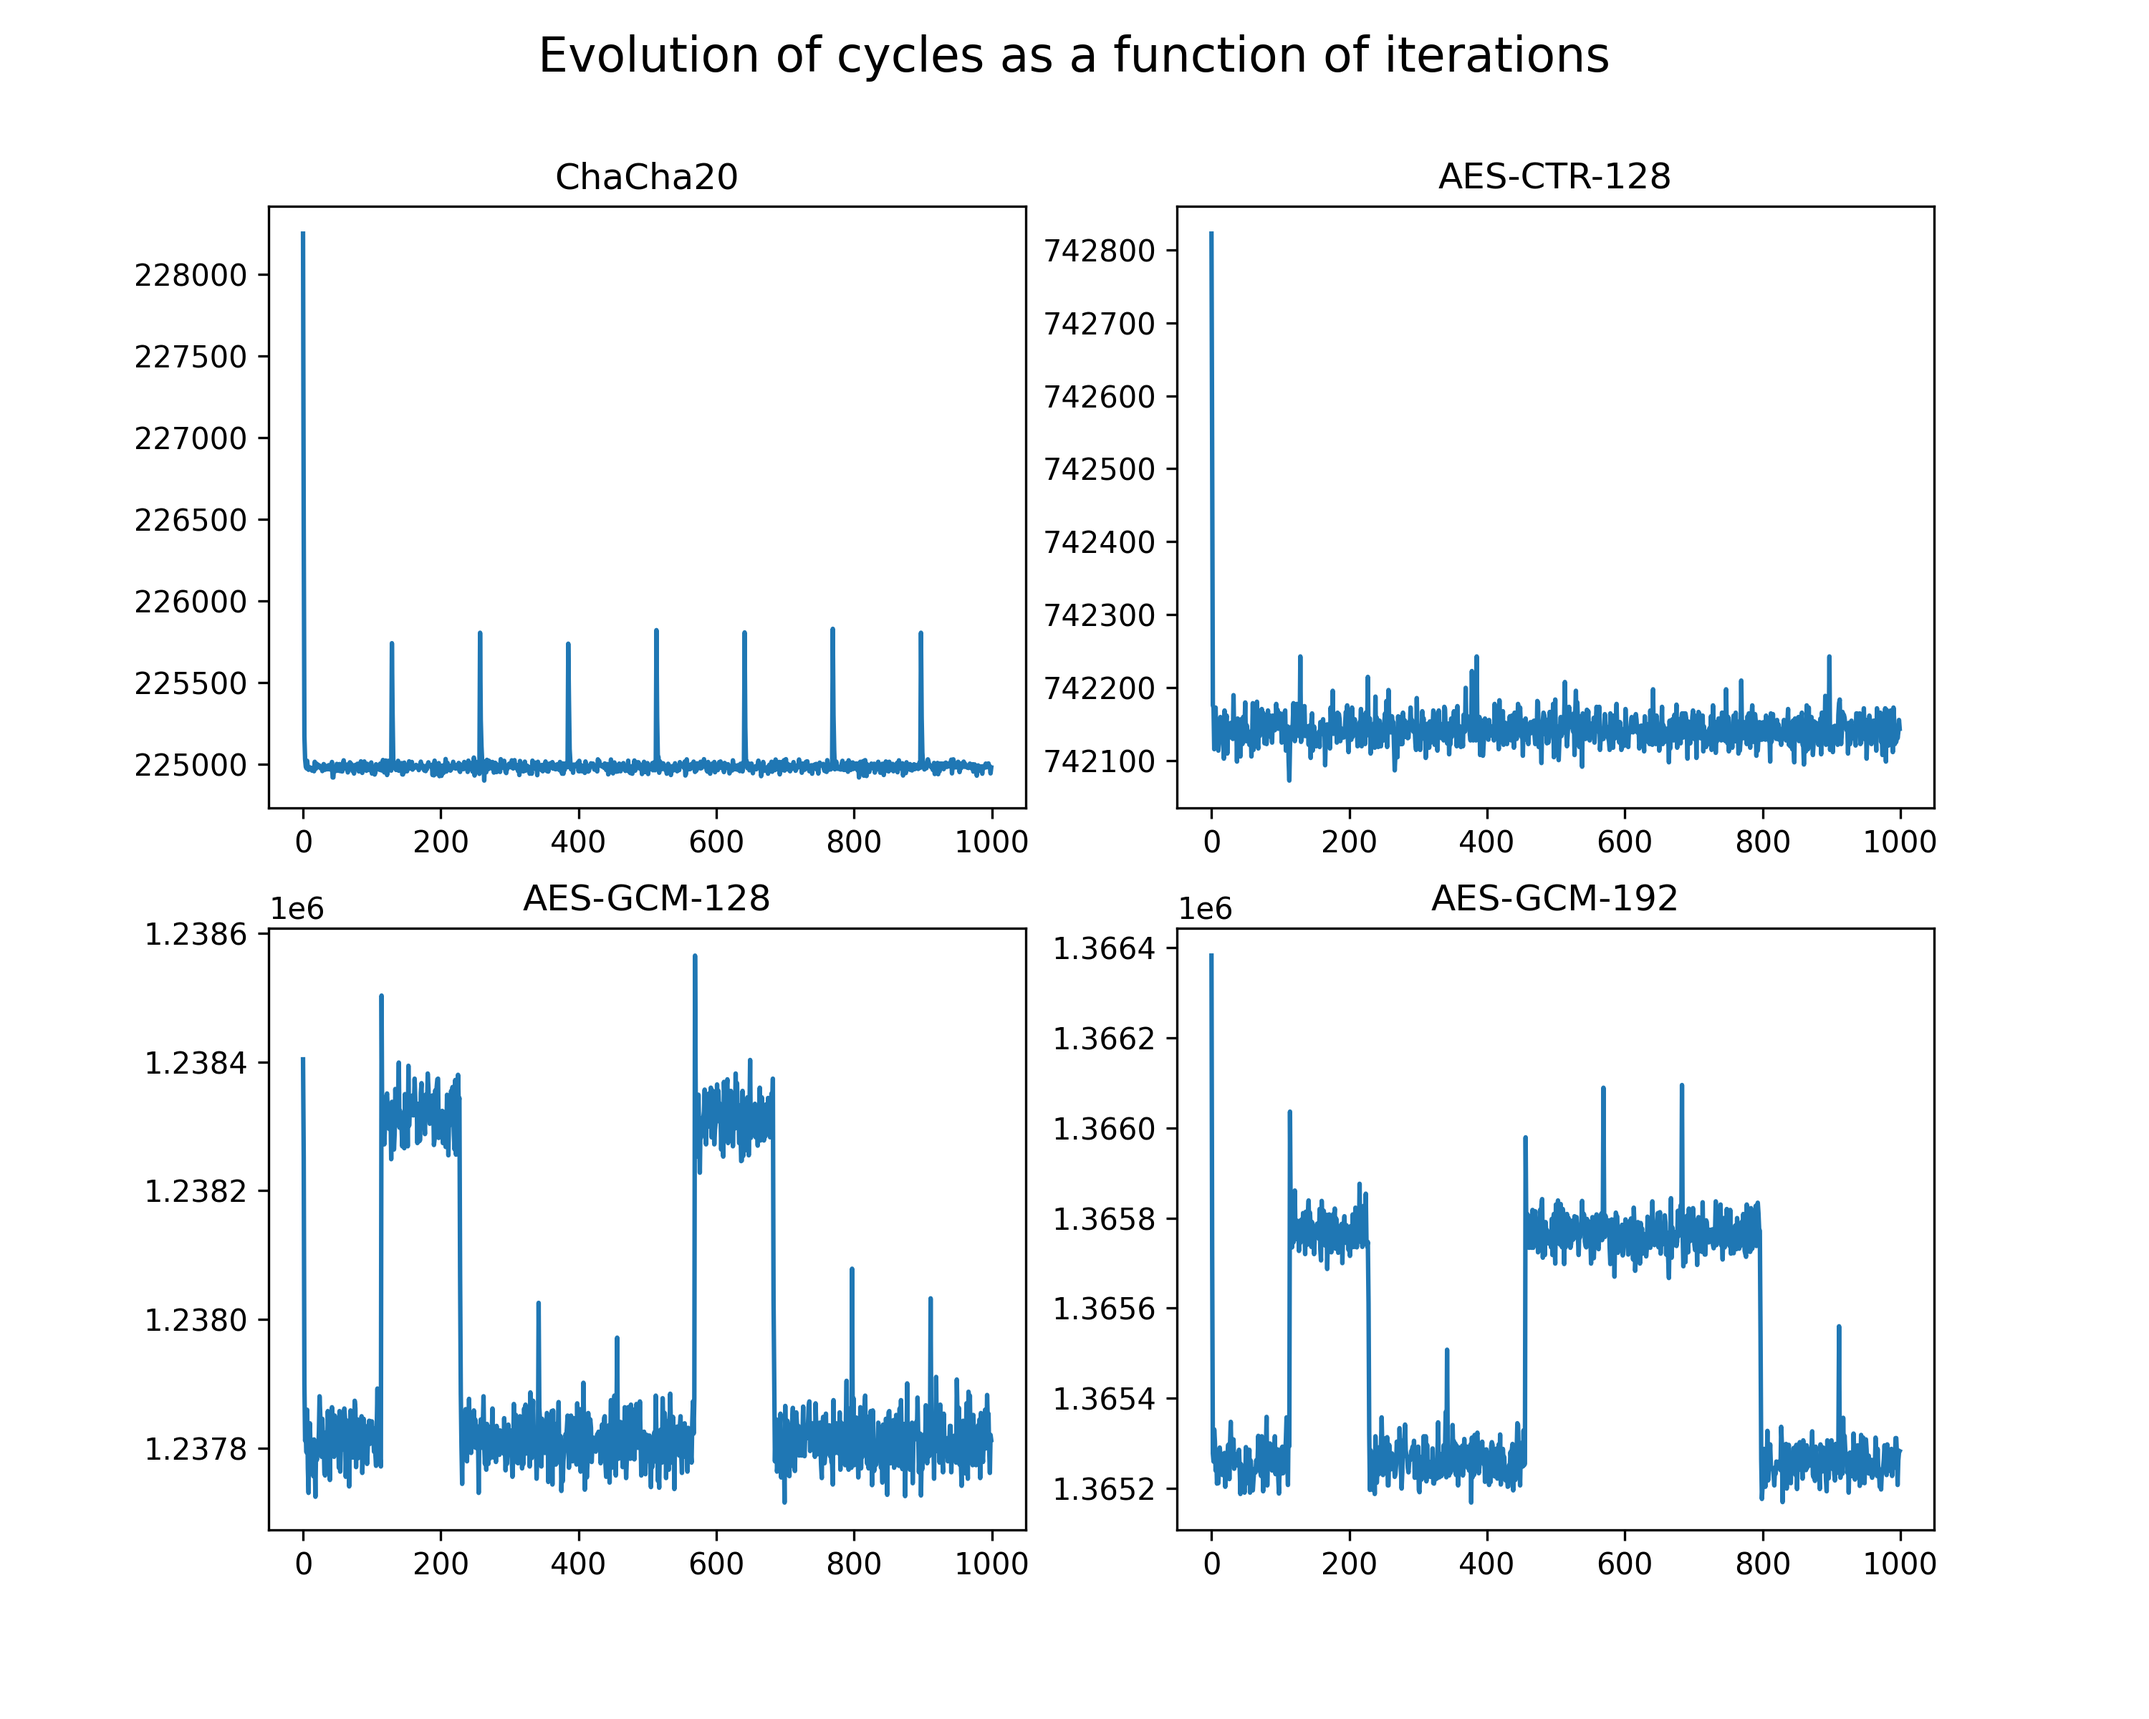
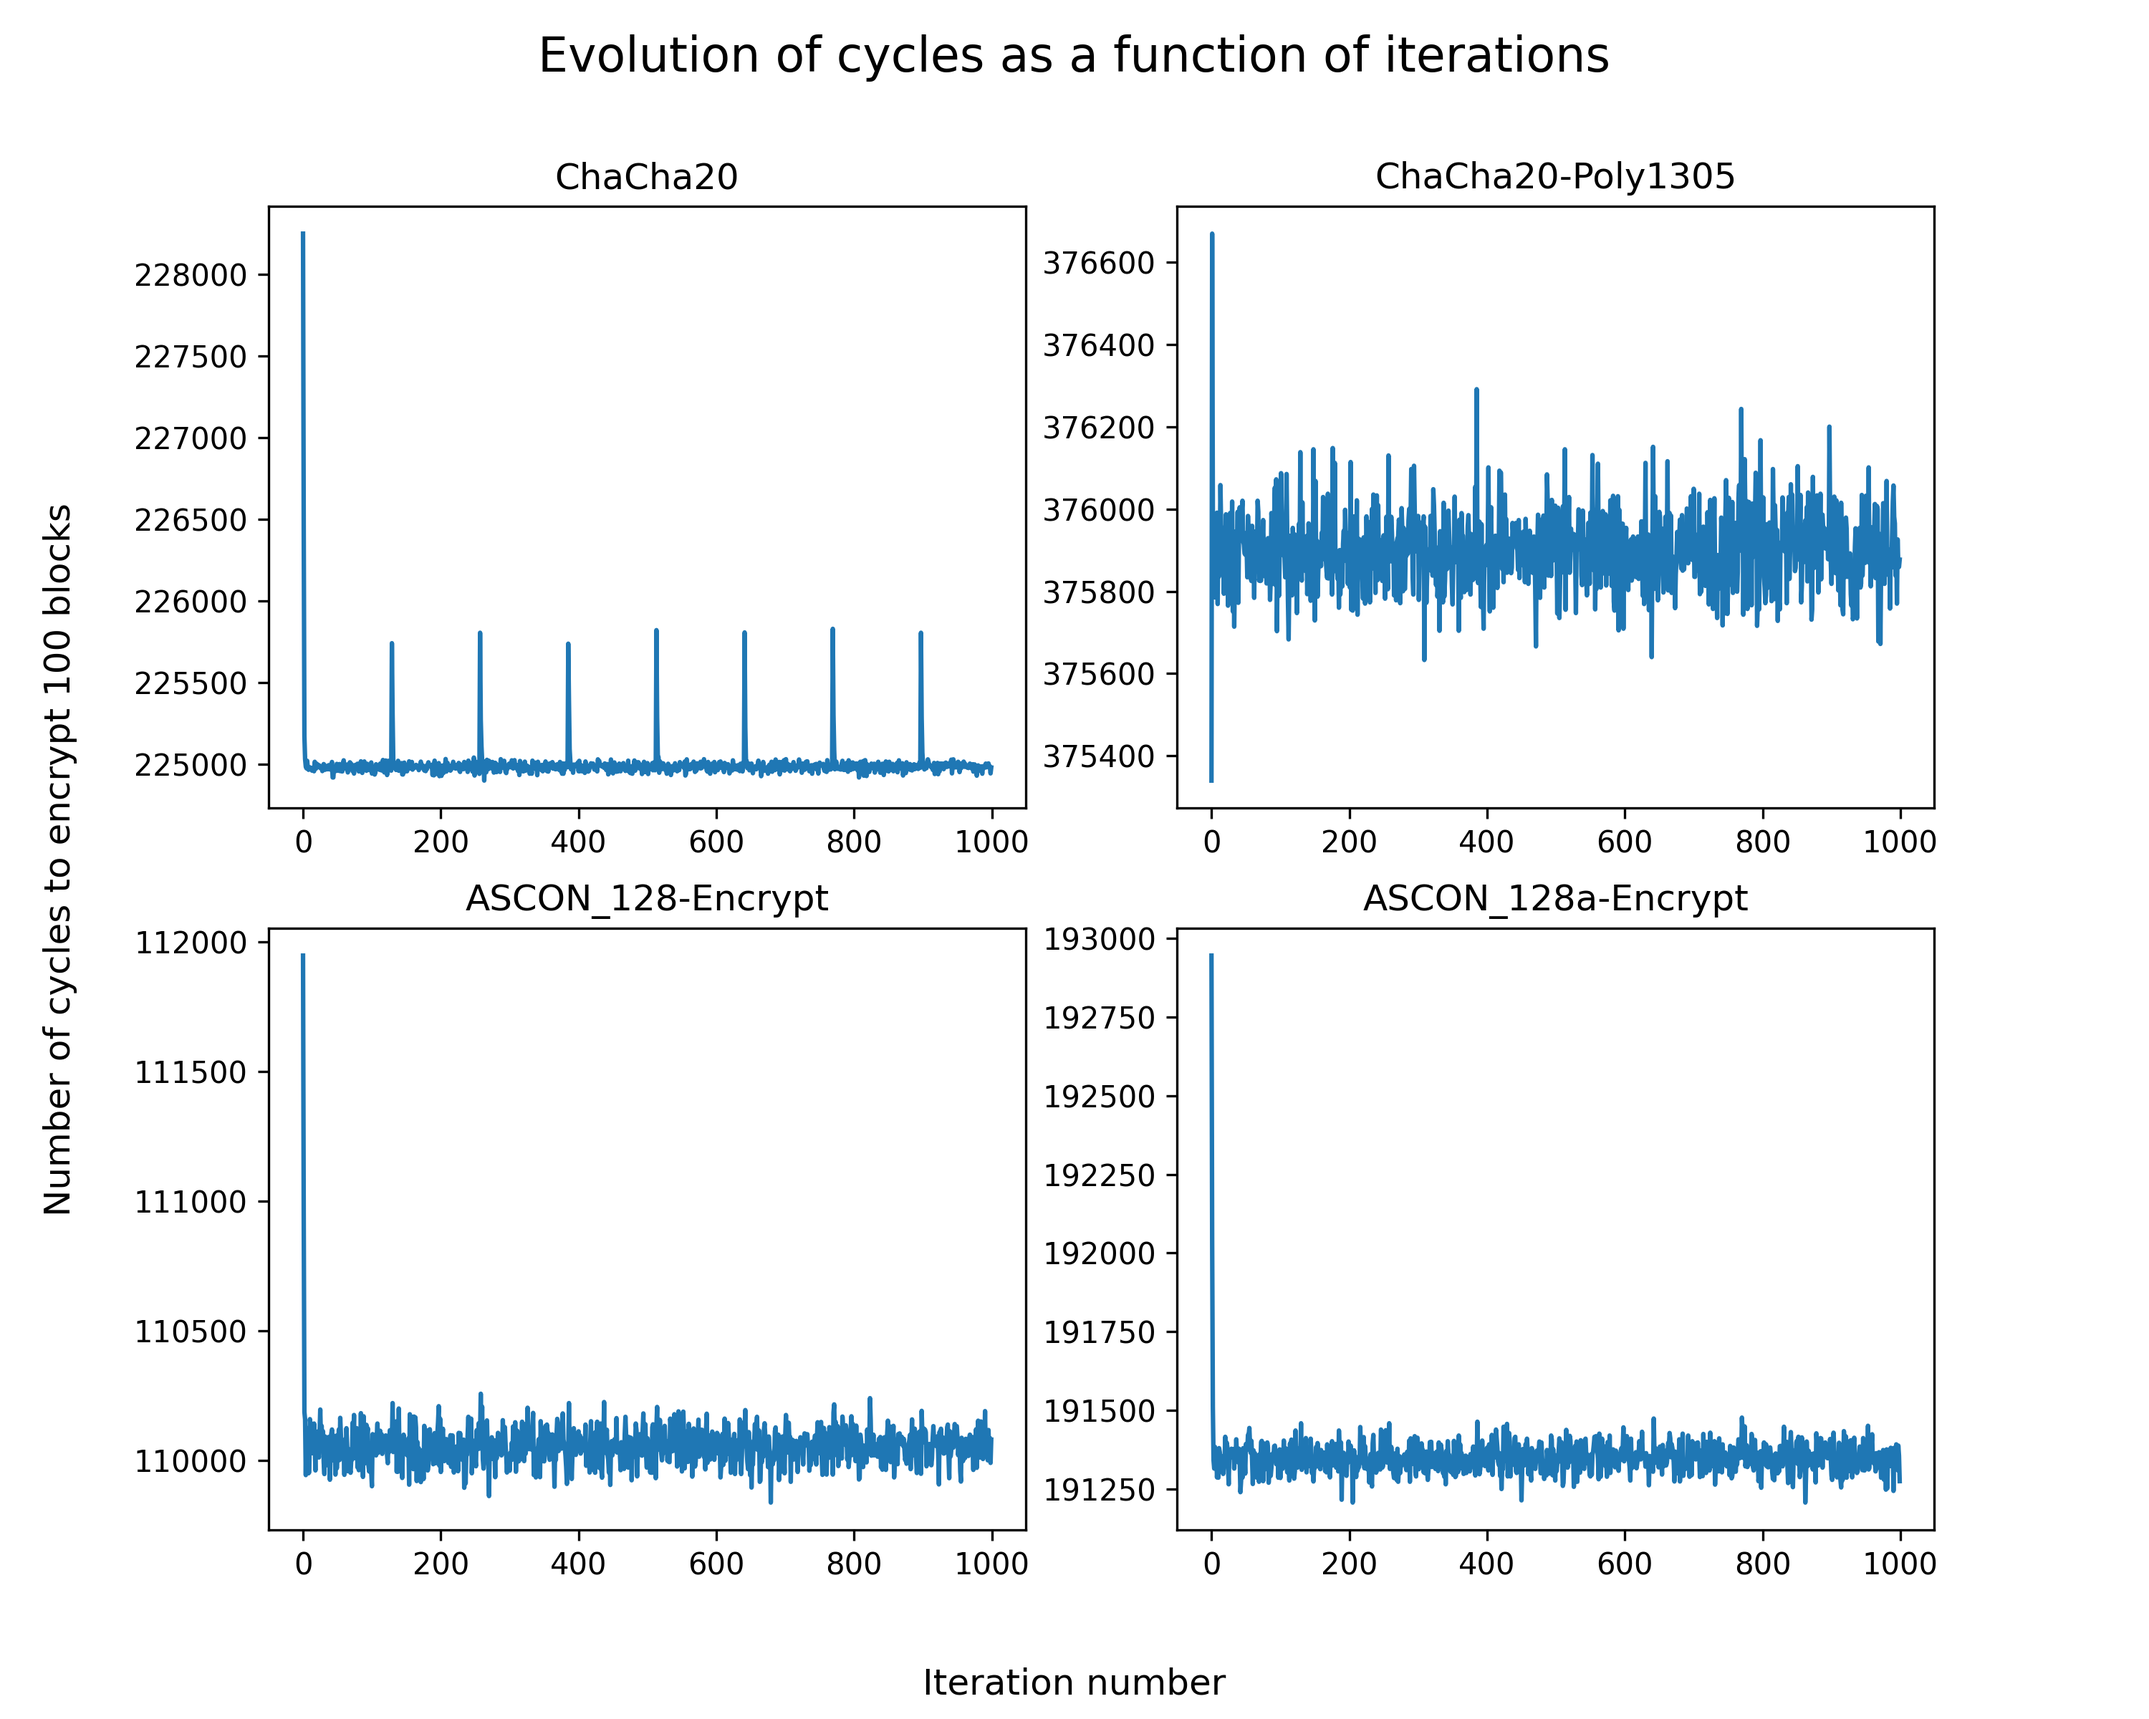
New figs

diff --git a/Benchmark results & graphs/scripts/main.py b/Benchmark results & graphs/scripts/main.py
@@ -1,6 +1,7 @@
 import os
 
 import matplotlib.pyplot as plt
+import matplotlib.ticker as ticker
 from scipy.stats import linregress
 import numpy as np
 from data import *
@@ -8,6 +9,8 @@ from data import *
 ##############################################################################################
 #                                       DISPLAY CHOICES                                     #
 ##############################################################################################
+
+include_AES = False
 
 plot_bubbles = False
 
@@ -90,6 +93,7 @@ if plot_bubbles:
 
     plt.tight_layout()
     plt.savefig("../graphs/bubble_plot.png", dpi=300)
+
 # Cycles per blocks number
 if plot_cycles_per_blocks:
     plt.figure(figsize=(10, 6))
@@ -97,33 +101,45 @@ if plot_cycles_per_blocks:
 
     # creating the trace for each algorithm
     for algo_name, data in algorithms.items():
-        plt.errorbar(data['blocks'], data['mean_cycles'],
-                     yerr=np.array([
-                         [m - min_val for m, min_val in zip(data['mean_cycles'], data['min_cycles'])],
-                         [max_val - m for m, max_val in zip(data['mean_cycles'], data['max_cycles'])]
-                     ]),
-                     label=algo_name,
-                     color=data['color'],
-                     capsize=5,
-                     capthick=1,
-                     marker=markers[data['style']],
-                     markersize=4,
-                     alpha=1,
-                     linestyle='-',
-                     linewidth=1)
+        if 'AES' not in algo_name or include_AES:
+            plt.errorbar(data['blocks'], data['mean_cycles'],
+                         yerr=np.array([
+                             [m - min_val for m, min_val in zip(data['mean_cycles'], data['min_cycles'])],
+                             [max_val - m for m, max_val in zip(data['mean_cycles'], data['max_cycles'])]
+                         ]),
+                         label=algo_name,
+                         color=data['color'],
+                         capsize=5,
+                         capthick=1,
+                         marker=markers[data['style']],
+                         markersize=4,
+                         alpha=1,
+                         linestyle='-',
+                         linewidth=2)
 
-        slope, intercept, r_value, p_value, std_err = linregress(data['blocks'], data['mean_cycles'])
-        print(f'{algo_name} fit (R²={r_value ** 2:.2f})')
-        print(slope, intercept, r_value, p_value, std_err)
-        # Regresssion plotting
-        #y_pred = [slope * xi + intercept for xi in data['blocks']]
-        #plt.plot(data['blocks'], y_pred, '--', label=f'{algo_name} fit (R²={r_value**2:.2f})', color=data['color'])
+            slope, intercept, r_value, p_value, std_err = linregress(data['blocks'], data['mean_cycles'])
+            print(f'{algo_name} fit (R²={r_value ** 2:.2f})')
+            print(slope, intercept, r_value, p_value, std_err)
+            # Regresssion plotting
+            #y_pred = [slope * xi + intercept for xi in data['blocks']]
+            #plt.plot(data['blocks'], y_pred, '--', label=f'{algo_name} fit (R²={r_value**2:.2f})', color=data['color'])
 
-    plt.xlabel('Number of encrypted blocks')
-    plt.ylabel('Number of cycles')
-    plt.title('Number of cycles per algorithm vs number of blocks')
+    # --- CONFIGURATION DU FORMATTEUR ICI ---
+    ax = plt.gca()  # Récupère l'axe actuel
+    formatter = ticker.ScalarFormatter(useMathText=True)
+    formatter.set_scientific(True)
+    formatter.set_powerlimits((4, 4))  # Force le format 10^4
+    ax.yaxis.set_major_formatter(formatter)
+
+    # Ajuster la taille de la police du petit "x10^4" en haut de l'axe
+    ax.yaxis.get_offset_text().set_fontsize(15)
+
+    plt.xlabel('Number of encrypted/decrypted blocks', fontsize=20)
+    plt.ylabel('Cycles', fontsize=20)
+    plt.title('Cycle count per algorithm over blocks number', fontsize=23)
     plt.grid(True, linestyle='--', alpha=0.7)
-    plt.legend(loc='upper left', bbox_to_anchor=(1, 1), )
+    plt.legend(loc='upper left', fontsize=23)
+    plt.tick_params(axis='both', which='major', labelsize=17)
 
     if log_cycles_per_blocks:
         plt.xscale('log', base=2)
@@ -141,23 +157,35 @@ if plot_instructions_per_blocks:
     print('LINEAR REGRESSION\n')
 
     for algo_name, data in algorithms.items():
-        plt.plot(data['blocks'], data['instructions'],
-                 label=algo_name,
-                 color=data['color'],
-                 marker=markers[data['style']],
-                 markersize=4,
-                 alpha=1,
-                 linestyle='-',
-                 linewidth=1)
-        slope, intercept, r_value, p_value, std_err = linregress(data['blocks'], data['instructions'])
-        print(f'{algo_name} fit (R²={r_value ** 2:.2f})')
-        print(slope, intercept, r_value, std_err)
+        if 'AES' not in algo_name or include_AES:
+            plt.plot(data['blocks'], data['instructions'],
+                     label=algo_name,
+                     color=data['color'],
+                     marker=markers[data['style']],
+                     markersize=4,
+                     alpha=1,
+                     linestyle='-',
+                     linewidth=2)
+            slope, intercept, r_value, p_value, std_err = linregress(data['blocks'], data['instructions'])
+            print(f'{algo_name} fit (R²={r_value ** 2:.2f})')
+            print(slope, intercept, r_value, std_err)
 
-    plt.xlabel('Number of encrypted blocks')
-    plt.ylabel('Number of instructions')
-    plt.title('Number of instructions per algorithm vs number of blocks')
+    # --- CONFIGURATION DU FORMATTEUR ICI ---
+    ax = plt.gca()  # Récupère l'axe actuel
+    formatter = ticker.ScalarFormatter(useMathText=True)
+    formatter.set_scientific(True)
+    formatter.set_powerlimits((4, 4))  # Force le format 10^4
+    ax.yaxis.set_major_formatter(formatter)
+
+    # Ajuster la taille de la police du petit "x10^4" en haut de l'axe
+    ax.yaxis.get_offset_text().set_fontsize(15)
+
+    plt.xlabel('Number of encrypted/decrypted blocks', fontsize=20)
+    plt.ylabel('Instructions', fontsize=20)
+    plt.title('Instruction count per algorithm over blocks number', fontsize=23)
     plt.grid(True, linestyle='--', alpha=0.7)
-    plt.legend(loc='upper left', bbox_to_anchor=(1, 1))
+    plt.legend(loc='upper left', fontsize=23)
+    plt.tick_params(axis='both', which='major', labelsize=17)
 
     if log_instructions_per_blocks:
         plt.xscale('log', base=2)

diff --git a/Benchmark results & graphs/scripts/variance.py b/Benchmark results & graphs/scripts/variance.py
@@ -41,7 +41,8 @@ plt.savefig("../graphs/ChaCha20_data-1000.png", dpi=300)
 
 fig, axes = plt.subplots(2, 2, figsize=(10, 8))
 
-display_algo = ['ChaCha20', 'AES-CTR-128', 'AES-GCM-128', 'AES-GCM-192']
+#display_algo = ['ChaCha20', 'AES-CTR-128', 'AES-GCM-128', 'AES-GCM-192']
+display_algo = ['ChaCha20', 'ChaCha20-Poly1305', 'ASCON_128-Encrypt', 'ASCON_128a-Encrypt']
 counter = 0
 
 for ax in axes.flat:
@@ -50,6 +51,8 @@ for ax in axes.flat:
     counter += 1
 
 fig.suptitle('Evolution of cycles as a function of iterations', fontsize=16)
+fig.supxlabel('Iteration number')
+fig.supylabel('Number of cycles to encrypt 100 blocks')
 plt.savefig("../graphs/cycles_evolution_subplots.png", dpi=300)
 
 markers = ['o', 's', 'D', '^', 'v', '<', '>']
